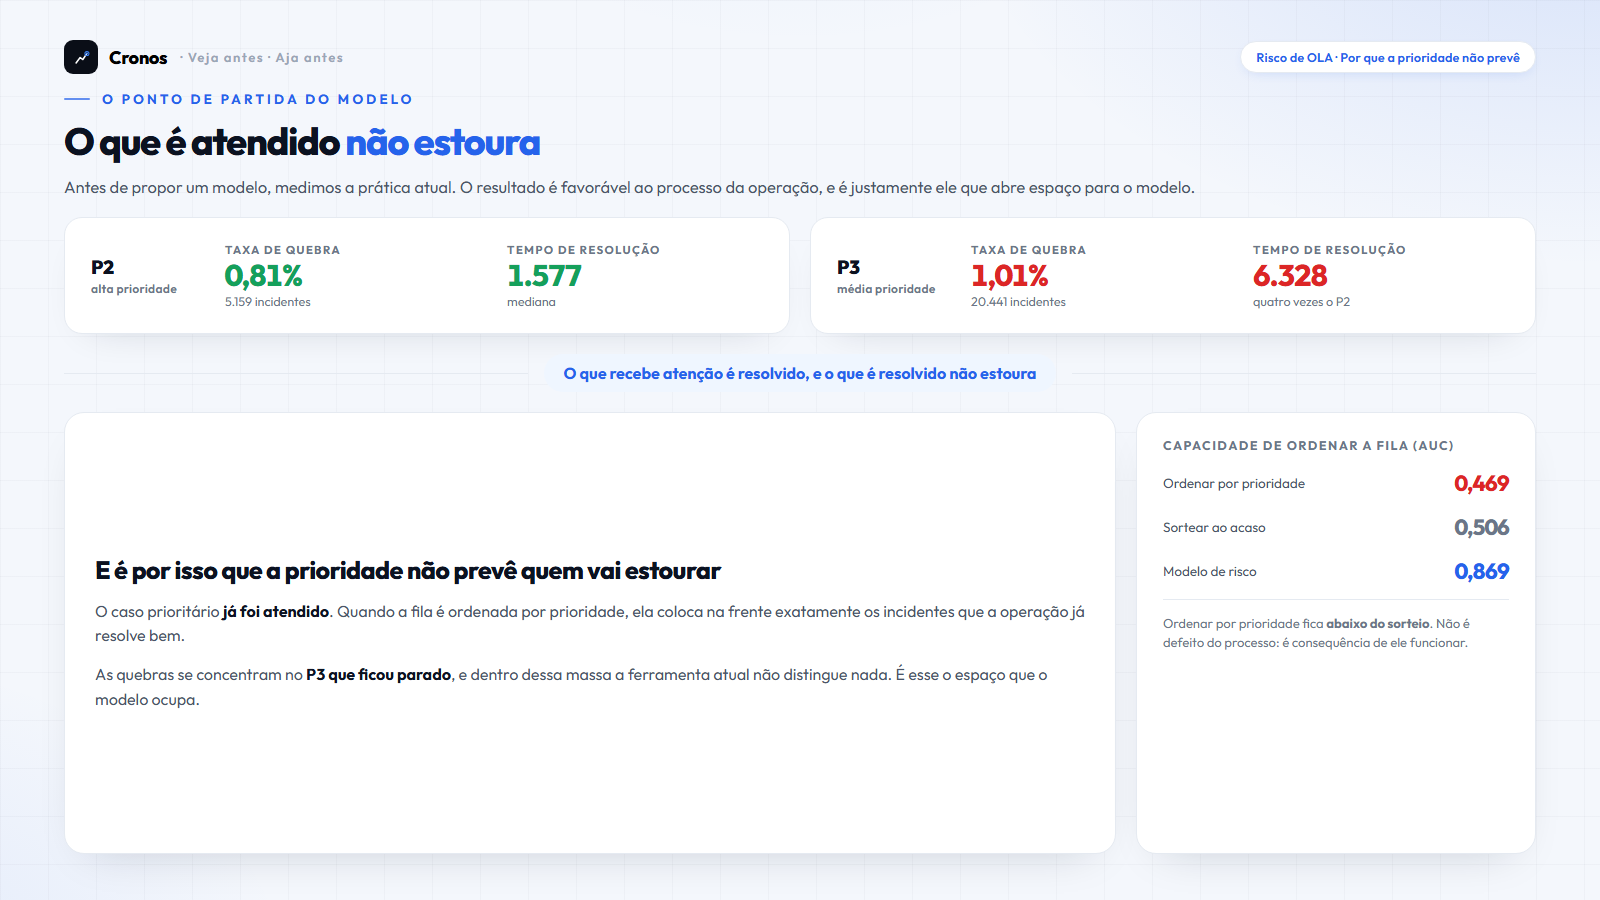
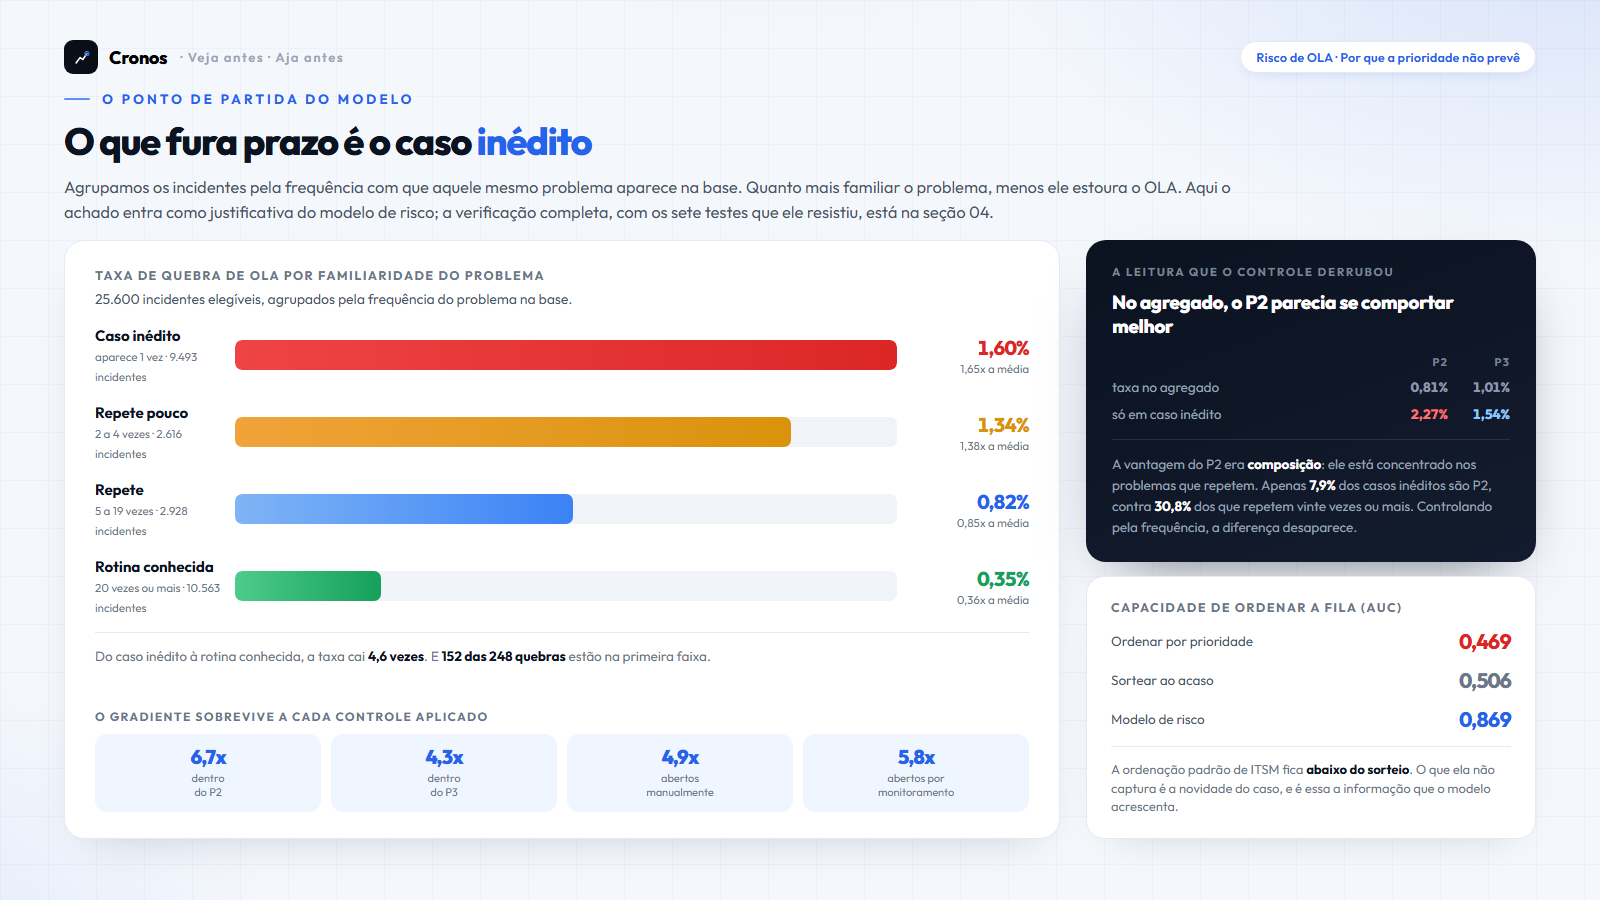
docs: adiciona página de comparação antes e depois dos slides alterados
Recupera do histórico do Git a versão anterior de cada slide modificado nos dois últimos commits,
renderiza as duas versões e monta uma página com os pares lado a lado, cada um acompanhado da
descrição em uma linha do que mudou.

São 13 slides: cinco da correção de narrativa e oito da redução de densidade. No caso do slide de
conclusão, que é novo, o antes apresentado é o slide que ele substitui.

Serve para revisão das alterações sem necessidade de comparar código.

diff --git a/prototipos/slides/mvp/deck/antes_depois.html b/prototipos/slides/mvp/deck/antes_depois.html
@@ -1,0 +1,160 @@
+<!DOCTYPE html><html lang="pt-BR"><head><meta charset="UTF-8">
+<title>Cronos · antes e depois dos slides alterados</title>
+<link href="https://fonts.googleapis.com/css2?family=Outfit:wght@400;600;700;800;900&display=swap" rel="stylesheet">
+<style>
+*{box-sizing:border-box;margin:0;padding:0}
+body{background:#0A0E17;color:#E8ECF3;font-family:'Outfit',sans-serif;padding:44px 40px 80px}
+h1{font-size:34px;font-weight:900;letter-spacing:-1.2px}
+.sub{color:#8E97A8;font-size:16px;margin-top:10px;max-width:900px;line-height:1.55}
+.sub b{color:#fff}
+.par{margin-top:46px;border-top:1px solid rgba(255,255,255,.09);padding-top:22px}
+.cab{display:flex;align-items:baseline;gap:14px;margin-bottom:14px}
+.cab .id{font-size:13px;font-weight:800;letter-spacing:1.4px;color:#93C5FD;
+  background:rgba(37,99,235,.16);padding:5px 11px;border-radius:7px;flex-shrink:0}
+.cab .txt{font-size:15px;color:#B8C0CE;line-height:1.5}
+.dupla{display:grid;grid-template-columns:1fr 1fr;gap:18px}
+figure{background:#111827;border:1px solid rgba(255,255,255,.08);border-radius:12px;
+  padding:10px;overflow:hidden}
+figcaption{margin-bottom:8px}
+.tag{font-size:11px;font-weight:800;letter-spacing:1.3px;text-transform:uppercase;
+  padding:4px 10px;border-radius:5px}
+.tag.antes{background:rgba(248,113,113,.16);color:#F87171}
+.tag.depois{background:rgba(74,222,128,.16);color:#4ADE80}
+img{width:100%;display:block;border-radius:7px}
+</style></head><body>
+<h1>Antes e depois</h1>
+<div class="sub">Os <b>13</b> slides que mudaram nos dois últimos
+commits, com a versão anterior recuperada do histórico do Git. À esquerda o que existia, à direita
+o que existe agora.</div>
+
+    <section class="par">
+      <div class="cab"><span class="id">d12a</span>
+        <span class="txt">Divisória renomeada: era "Seção 02 · Modelagem", virou "Previsão de Volume".</span></div>
+      <div class="dupla">
+        <figure><figcaption><span class="tag antes">antes</span></figcaption>
+          <img src="png/antes_d12a.png" alt="antes"></figure>
+        <figure><figcaption><span class="tag depois">depois</span></figcaption>
+          <img src="png/d12a.png" alt="depois"></figure>
+      </div>
+    </section>
+    <section class="par">
+      <div class="cab"><span class="id">d20a</span>
+        <span class="txt">Deixou de repetir o número do slide 11. Passa a liderar com a armadilha da acurácia.</span></div>
+      <div class="dupla">
+        <figure><figcaption><span class="tag antes">antes</span></figcaption>
+          <img src="png/antes_d20a.png" alt="antes"></figure>
+        <figure><figcaption><span class="tag depois">depois</span></figcaption>
+          <img src="png/d20a.png" alt="depois"></figure>
+      </div>
+    </section>
+    <section class="par">
+      <div class="cab"><span class="id">d21a</span>
+        <span class="txt">Ganhou a ponte apontando que a verificação completa está na seção 04.</span></div>
+      <div class="dupla">
+        <figure><figcaption><span class="tag antes">antes</span></figcaption>
+          <img src="png/antes_d21a.png" alt="antes"></figure>
+        <figure><figcaption><span class="tag depois">depois</span></figcaption>
+          <img src="png/d21a.png" alt="depois"></figure>
+      </div>
+    </section>
+    <section class="par">
+      <div class="cab"><span class="id">d22a</span>
+        <span class="txt">Ganhou a ponte apontando que a verificação completa está na seção 04.</span></div>
+      <div class="dupla">
+        <figure><figcaption><span class="tag antes">antes</span></figcaption>
+          <img src="png/antes_d22a.png" alt="antes"></figure>
+        <figure><figcaption><span class="tag depois">depois</span></figcaption>
+          <img src="png/d22a.png" alt="depois"></figure>
+      </div>
+    </section>
+    <section class="par">
+      <div class="cab"><span class="id">d22b</span>
+        <span class="txt">Ganhou a ponte apontando que a verificação completa está na seção 04.</span></div>
+      <div class="dupla">
+        <figure><figcaption><span class="tag antes">antes</span></figcaption>
+          <img src="png/antes_d22b.png" alt="antes"></figure>
+        <figure><figcaption><span class="tag depois">depois</span></figcaption>
+          <img src="png/d22b.png" alt="depois"></figure>
+      </div>
+    </section>
+    <section class="par">
+      <div class="cab"><span class="id">d23a</span>
+        <span class="txt">Lista de características caiu de 7 para 5 itens e perdeu a anotação lateral. Os números de escala saíram do slide.</span></div>
+      <div class="dupla">
+        <figure><figcaption><span class="tag antes">antes</span></figcaption>
+          <img src="png/antes_d23a.png" alt="antes"></figure>
+        <figure><figcaption><span class="tag depois">depois</span></figcaption>
+          <img src="png/d23a.png" alt="depois"></figure>
+      </div>
+    </section>
+    <section class="par">
+      <div class="cab"><span class="id">d27a</span>
+        <span class="txt">Card do SHAP passou de dois parágrafos para um.</span></div>
+      <div class="dupla">
+        <figure><figcaption><span class="tag antes">antes</span></figcaption>
+          <img src="png/antes_d27a.png" alt="antes"></figure>
+        <figure><figcaption><span class="tag depois">depois</span></figcaption>
+          <img src="png/d27a.png" alt="depois"></figure>
+      </div>
+    </section>
+    <section class="par">
+      <div class="cab"><span class="id">d27b</span>
+        <span class="txt">Card do SHAP passou de dois parágrafos para um.</span></div>
+      <div class="dupla">
+        <figure><figcaption><span class="tag antes">antes</span></figcaption>
+          <img src="png/antes_d27b.png" alt="antes"></figure>
+        <figure><figcaption><span class="tag depois">depois</span></figcaption>
+          <img src="png/d27b.png" alt="depois"></figure>
+      </div>
+    </section>
+    <section class="par">
+      <div class="cab"><span class="id">d33a</span>
+        <span class="txt">Os dois blocos de leitura descartada perderam a explicação repetida.</span></div>
+      <div class="dupla">
+        <figure><figcaption><span class="tag antes">antes</span></figcaption>
+          <img src="png/antes_d33a.png" alt="antes"></figure>
+        <figure><figcaption><span class="tag depois">depois</span></figcaption>
+          <img src="png/d33a.png" alt="depois"></figure>
+      </div>
+    </section>
+    <section class="par">
+      <div class="cab"><span class="id">d36a</span>
+        <span class="txt">Card dos alarmes falsos fundiu dois parágrafos em um.</span></div>
+      <div class="dupla">
+        <figure><figcaption><span class="tag antes">antes</span></figcaption>
+          <img src="png/antes_d36a.png" alt="antes"></figure>
+        <figure><figcaption><span class="tag depois">depois</span></figcaption>
+          <img src="png/d36a.png" alt="depois"></figure>
+      </div>
+    </section>
+    <section class="par">
+      <div class="cab"><span class="id">d36b</span>
+        <span class="txt">Card dos alarmes falsos fundiu dois parágrafos em um.</span></div>
+      <div class="dupla">
+        <figure><figcaption><span class="tag antes">antes</span></figcaption>
+          <img src="png/antes_d36b.png" alt="antes"></figure>
+        <figure><figcaption><span class="tag depois">depois</span></figcaption>
+          <img src="png/d36b.png" alt="depois"></figure>
+      </div>
+    </section>
+    <section class="par">
+      <div class="cab"><span class="id">d38a</span>
+        <span class="txt">Os três quadrantes secundários ficaram com uma linha cada. O de risco latente manteve o texto completo.</span></div>
+      <div class="dupla">
+        <figure><figcaption><span class="tag antes">antes</span></figcaption>
+          <img src="png/antes_d38a.png" alt="antes"></figure>
+        <figure><figcaption><span class="tag depois">depois</span></figcaption>
+          <img src="png/d38a.png" alt="depois"></figure>
+      </div>
+    </section>
+    <section class="par">
+      <div class="cab"><span class="id">d39a</span>
+        <span class="txt">SLIDE NOVO. O antes é o slide de conclusão que ele substitui, que resumia apenas a seção de previsão de volume.</span></div>
+      <div class="dupla">
+        <figure><figcaption><span class="tag antes">antes</span></figcaption>
+          <img src="png/antes_d39a.png" alt="antes"></figure>
+        <figure><figcaption><span class="tag depois">depois</span></figcaption>
+          <img src="png/d39a.png" alt="depois"></figure>
+      </div>
+    </section>
+</body></html>
